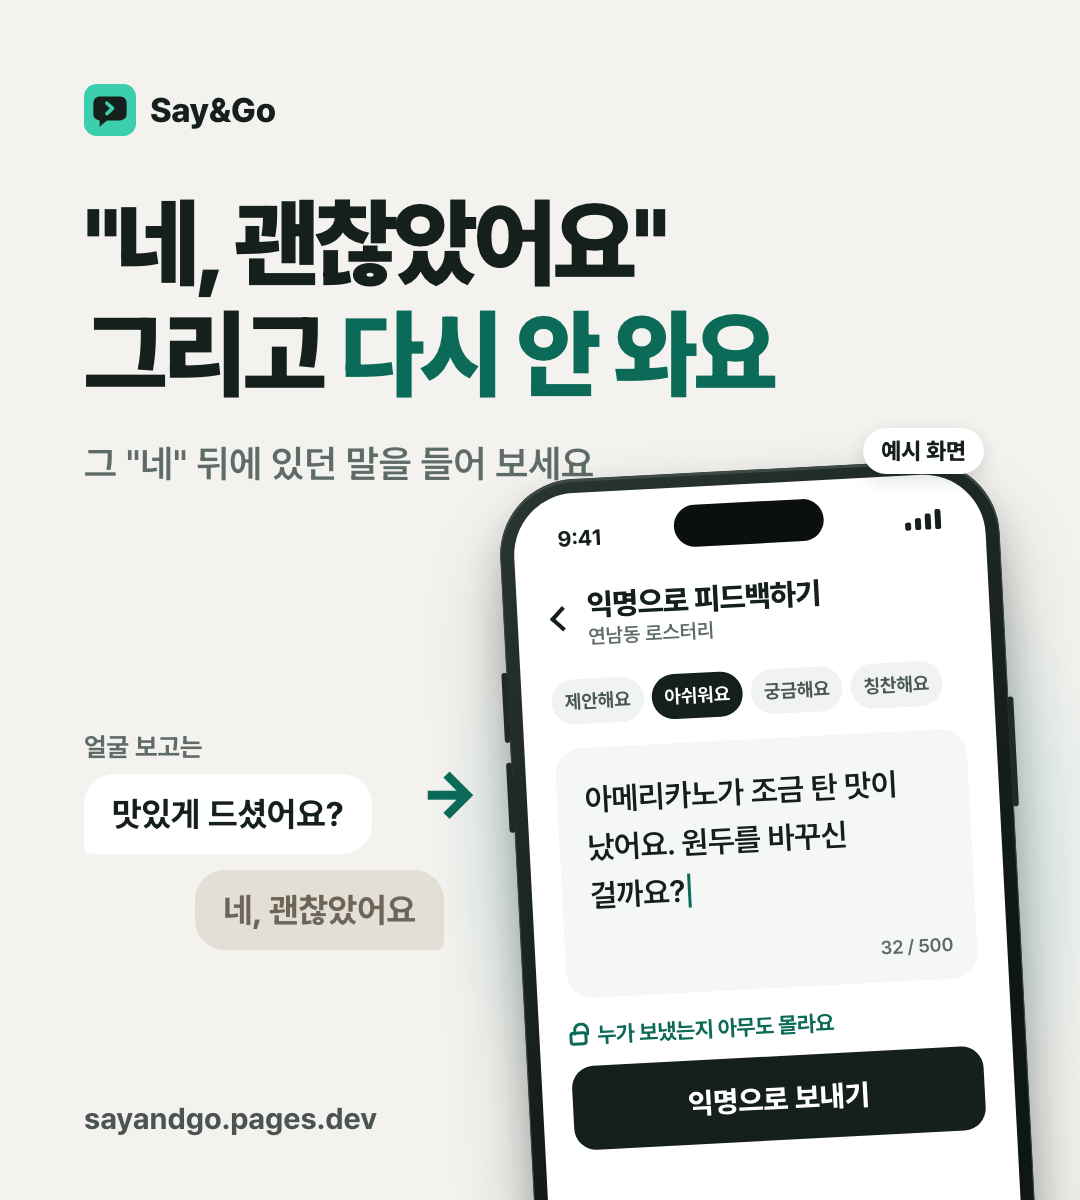
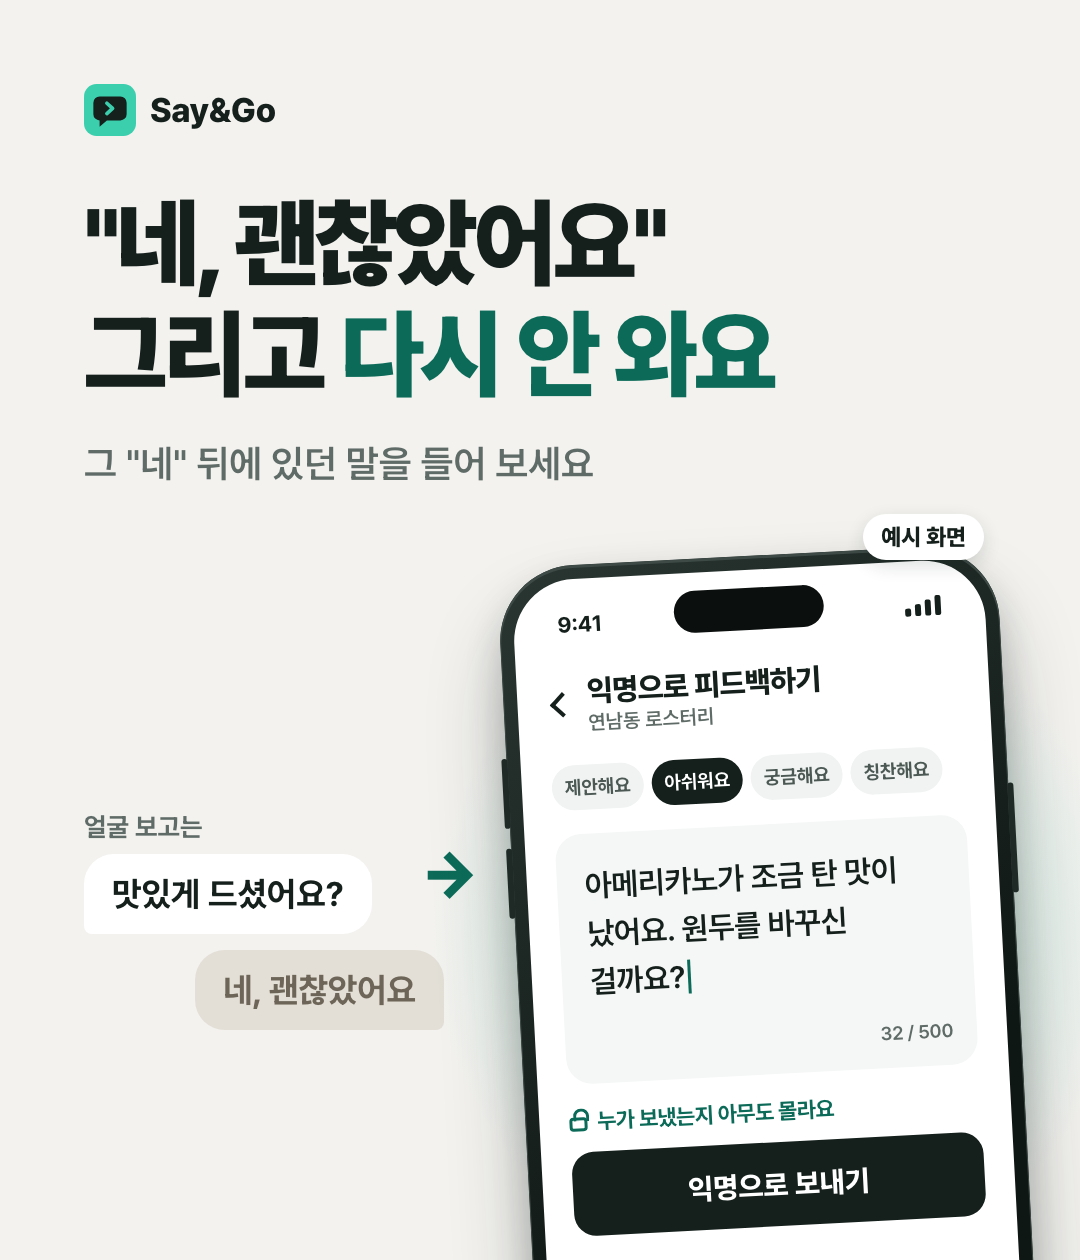
docs: 홈 슬라이드 5장 PNG, Threads 카드 v1 링크 제거·간격·높이 1260

diff --git a/docs/threads/cards-v.html b/docs/threads/cards-v.html
@@ -160,14 +160,14 @@
   .tag-ex { position: absolute; left: 500px; top: 520px; z-index: 3; font-size: 23px; font-weight: 800; color: var(--ink); background: #fff; padding: 9px 18px; border-radius: 999px; box-shadow: 0 6px 18px rgba(21,32,29,0.14); }
 
   /* v1: 높이 1200 */
-  .card.short { height: 1200px; }
+  .card.short { height: 1260px; }
   #card1-v1 h1 { margin-top: 52px; }
   #card1-v1 .sub { margin-top: 24px; }
-  #card1-v1 .device { top: 470px; }
-  #card1-v1 .tag-ex { top: 428px; left: auto; right: 96px; }
-  #card1-v1 .glow { top: 470px; }
-  #card1-v1 .left { bottom: 250px; }
-  #card1-v1 .arrow--v1 { bottom: 370px; }
+  #card1-v1 .device { top: 556px; }
+  #card1-v1 .tag-ex { top: 514px; left: auto; right: 96px; }
+  #card1-v1 .glow { top: 556px; }
+  #card1-v1 .left { bottom: 230px; }
+  #card1-v1 .arrow--v1 { bottom: 350px; }
 </style>
 </head>
 <body>
@@ -192,7 +192,6 @@
     </div>
   </div>
   <span class="tag-ex">예시 화면</span>
-  <p class="url">sayandgo.pages.dev</p>
 </section>
 <section class="card v" id="card1-v2">
   <div class="brand"><img src="../../web/public/favicon.svg" alt="">Say&amp;Go</div>
